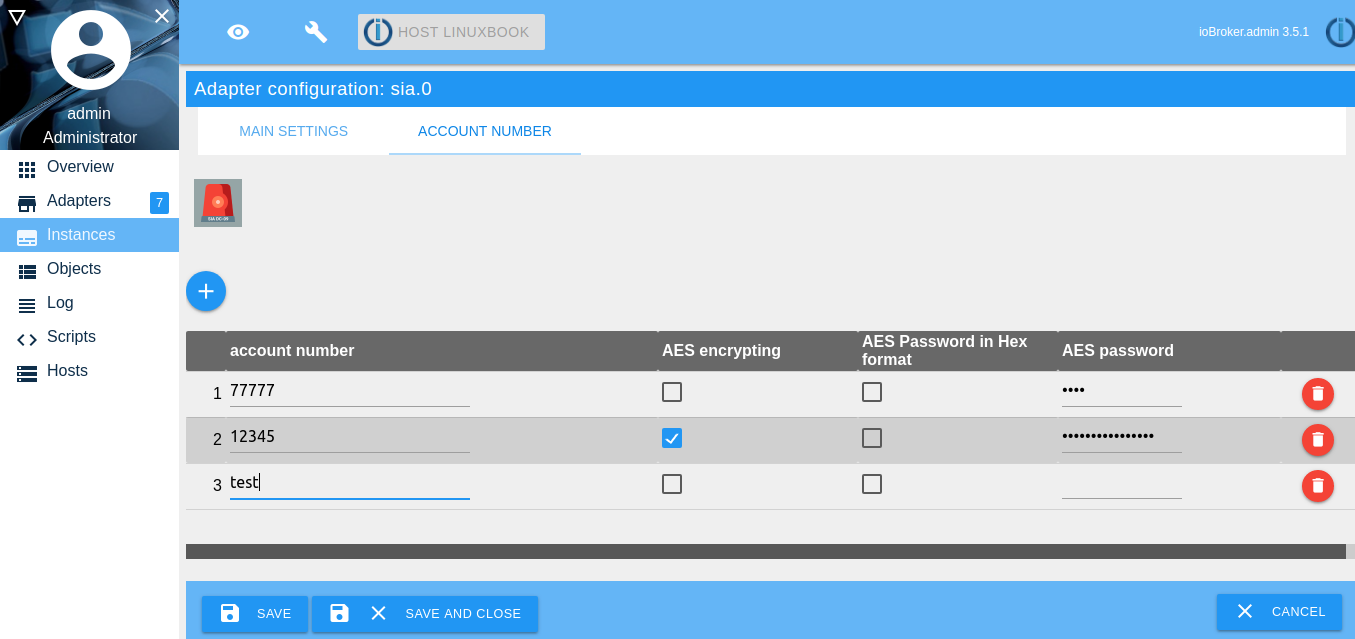
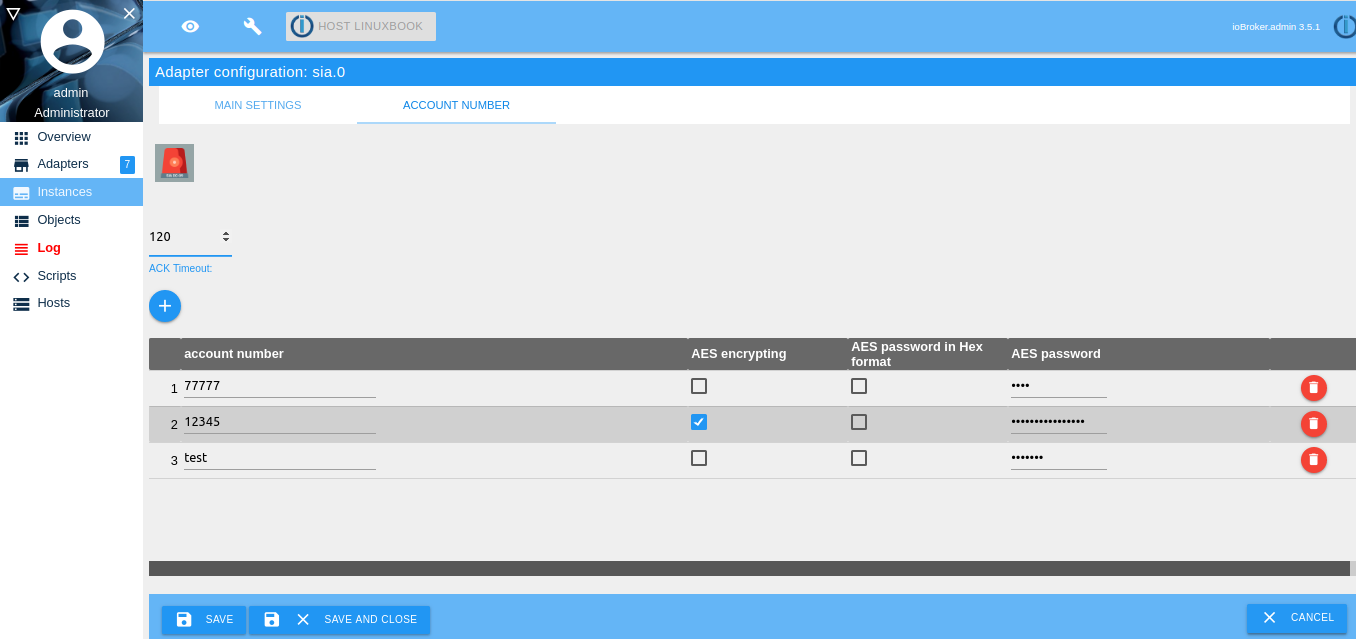
Updates

diff --git a/sia.js b/sia.js
@@ -244,9 +244,10 @@ function getBytes(text) {
 }
 
 // *****************************************************************************************************
-// Padding /  str = customPadding(str, 256, 0x0, "hex"); // magic happens here
+// Padding /  str = customPadding(str, 16, 0x0, "hex"); // magic happens here
 // *****************************************************************************************************
-function customPadding(str, blockSize, padder, format) {
+function customPadding(str, bytelen, padder, format) {
+  let blockSize = bytelen * 16;
   str = new Buffer(str, "utf8").toString(format);
   //1 char = 8bytes
   let bitLength = str.length * 8;
@@ -272,7 +273,7 @@ function encrypt_hex(password, decrypted) {
     iv.fill(0);
     let crypted = decrypted;
     let aes;
-    // password = customPadding(password, 256, 0x0, "hex"); // magic happens here
+    // password = customPadding(password, 24, 0x0, "hex"); // magic happens here
     switch (password.length) {
       case 16:
         aes = 'aes-128-cbc';
@@ -305,7 +306,7 @@ function decrypt_hex(password, encrypted) {
     iv.fill(0);
     let crypted = new Buffer(encrypted, 'hex').toString('binary');
     let aes;
-    // password = customPadding(password, 256, 0x0, "hex"); // magic happens here
+    //  password = customPadding(password, 24, 0x0, "hex"); // magic happens here
     switch (password.length) {
       case 16:
         aes = 'aes-128-cbc';
@@ -357,9 +358,9 @@ function isInTime(ts) {
     [tt, dd] = getTimestamp().substring(1).split(',');
     let now = new Date();
     // now = now.toUTCString();
-    let diff = (val - now) / 1000;
+    let diff = Math.abs((val - now) / 1000);
     // if (diff > 20 || diff < -40) {
-    if (diff > 120 || diff < -120) {
+    if (adapter.config.timeout > 0 && diff > adapter.config.timeout) {
       adapter.log.debug("Timestamp difference. Time in message " + val.toUTCString() + ". Time now " + now.toUTCString());
       return false;
     } else {
@@ -443,18 +444,21 @@ function ackSIA(sia) {
     let str = "";
     adapter.log.debug("ackSIA (cfg) : " + JSON.stringify(cfg));
     adapter.log.debug("ackSIA (sia) : " + JSON.stringify(sia));
-    // if (sia.crc == sia.calc_crc && sia.len == sia.calc_len && cfg && isInTime(sia.ts)) {
-    if (sia.crc == sia.calc_crc && sia.len == sia.calc_len && cfg) {
+    if (sia.crc == sia.calc_crc && sia.len == sia.calc_len && cfg && isInTime(sia.ts)) {
+    // if (sia.crc == sia.calc_crc && sia.len == sia.calc_len && cfg) {
       let rpref = sia.rpref && sia.rpref.length > 0 ? "R" + sia.rpref : "";
       let lpref = sia.lpref && sia.lpref.length > 0 ? "L" + sia.lpref : "";
       if (sia.id[0] == "*") {
         let msglen = ('|]' + ts).length;
-        let padlen = (msglen % 16);
+        let padlen = 16 - (msglen % 16);
+        let pad = new Buffer(padlen);
+        /*
         let pad = "";
         if(padlen > 0) {
           padlen = 16 - padlen;
           pad = new Buffer(padlen);
         }
+        */
         let msg = encrypt_hex(cfg.password, pad + '|]' + ts);
         str = '"*ACK"' + sia.seq + rpref + lpref + '#' + sia.act + '[' + msg;
       } else {
@@ -492,8 +496,7 @@ function ackSIA(sia) {
       return ack;
     }
   }
-  let crcformat = getcrcFormat(data);
-  return nackSIA(crcformat);
+  return undefined;
 }
 
 // *****************************************************************************************************
@@ -743,6 +746,10 @@ function onClientConnected(sock) {
     if (sia) {
       setStatesSIA(sia);
       ack = ackSIA(sia);
+      if(!ack) {
+        let crcformat = getcrcFormat(data);
+        ack = nackSIA(crcformat);
+      }
     } else {
       let crcformat = getcrcFormat(data);
       ack = nackSIA(crcformat);

diff --git a/admin/index_m.html b/admin/index_m.html
@@ -313,12 +313,20 @@
         </div>
       </div>
 
+      <div class="row">
+        <div class="col s12 m4 l1">
+          <input class="value number" id="timeout" min="0" max="60" type="number" />
+          <label class="translate" for="timeout">ACK Timeout</label>
+        </div>
+      </div>
+
       <div id="values">
         <div class="row">
           <div class="col s12">
             <a class="btn-floating waves-effect waves-light table-button-add"><i class="material-icons">add</i></a>
           </div>
         </div>
+
         <div class="row">
           <div class="col s12">
             <table class="table-values" style="width: 100%;">

diff --git a/admin/words.js b/admin/words.js
@@ -46,6 +46,18 @@ systemDictionary = {
     "es": "número de cuenta",
     "pl": "numer konta"
   },
+  "ACK Timeout": {
+    "en": "ACK Timeout",
+    "de": "ACK Timeout",
+    "ru": "ACK Timeout",
+    "pt": "Tempo limite ACK",
+    "nl": "ACK Timeout",
+    "fr": "ACK Timeout",
+    "it": "Timeout ACK",
+    "es": "ACK Timeout",
+    "pl": "Limit czasu ACK",
+    "zh-cn": "ACK超时"
+  },
   "AES encrypting": {
     "en": "AES encrypting",
     "de": "AES-Verschlüsselung",

diff --git a/README.md b/README.md
@@ -29,6 +29,7 @@ You can use ioBroker with this adapter as central station. For example. you can 
  
   Register account number. If you are using AES you have to enter a password (key). The key should be 16, 24 or 32 characters (byte) long.
   If the checkbox "AES password in Hex format" is active, the password length must be 32, 48 or 64 character (byte) long.
+  In the field ACK timeout, you define how old the message can be in sec. If you define 0 sec., no timeout validation will be done.
   ![sia_adapter2](admin/sia_adapter2.png)
 
 3. Configure your burglar system to send SIA messages
@@ -60,6 +61,7 @@ If you receive SIA messages you see them in the states tree
 * (Stübi) CRC can be send in 0xABCD (2 Byte) or ABCD (4 Byte, ASCII) format. Automatic recognizing
 * (Stübi) AES Password can be in AES-128-CBC, AES-192-CBC or AES-256-CBC
 * (Stübi) AES Password can be saved in byte or hex (length 16, 24 or 32 byte) format or hex (length 32, 48 or 64 hex) format
+* (Stübi) Timeout for ACK (0 = disable, 1 - n sec)
 
 ### 1.0.0 (05.01.2018)
 * (Stübi) Support js-controller compact mode 
